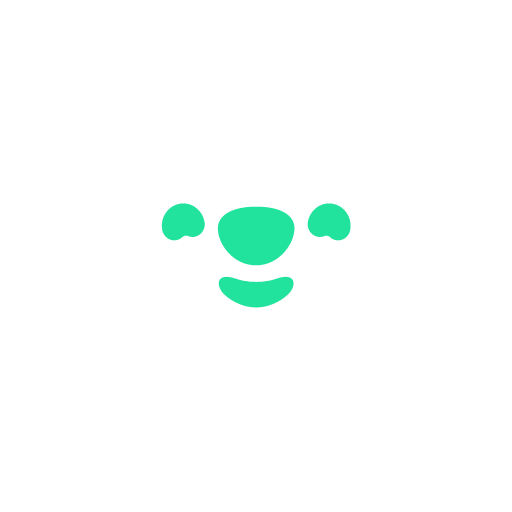
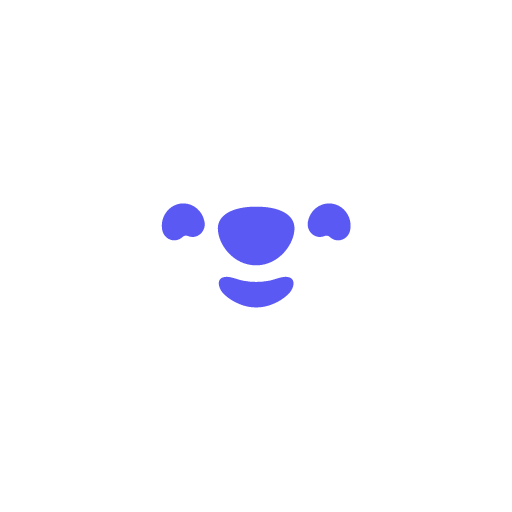
feat: done

Changed region(s): [[0.3125, 0.375, 0.6875, 0.625]]

diff --git a/mobile/src/hooks/useRecaps.tsx b/mobile/src/hooks/useRecaps.tsx
@@ -6,146 +6,9 @@ import { toast } from 'sonner';
 const INFER_API =
   'https://alan-orion-api-754072912278.europe-west9.run.app/infer/';
 
-// @ts-ignore
-const fakeRecaps = [
-  {
-    image:
[1 lines of base64/hex data omitted]
-    description: 'You seem slightly restless, but overall calm.',
-    general_score: 0.39,
-    date: '2021-09-01 12:00:00'
-  },
-  {
-    image:
[1 lines of base64/hex data omitted]
-    description: 'You seem a little anxious, but nothing overwhelming.',
-    general_score: 0.45,
-    date: '2021-09-02 12:00:00'
-  },
-  {
-    image:
[1 lines of base64/hex data omitted]
-    description: 'You appear very relaxed, nothing seems to bother you.',
-    general_score: 0.08,
-    date: '2021-09-03 12:00:00'
-  },
-  {
-    image:
[1 lines of base64/hex data omitted]
-    description: 'There’s some mild tension, but you are managing it.',
-    general_score: 0.33,
-    date: '2021-09-04 12:00:00'
-  },
-  {
-    image:
[1 lines of base64/hex data omitted]
-    description: 'You look a bit stressed, maybe take some time to relax.',
-    general_score: 0.5,
-    date: '2021-09-05 12:00:00'
-  },
-  {
-    image:
[1 lines of base64/hex data omitted]
-    description: 'Serenity radiates from you, all seems in balance.',
-    general_score: 0.11,
-    date: '2021-09-06 12:00:00'
-  },
-  {
-    image:
[1 lines of base64/hex data omitted]
-    description: 'A small hint of stress is visible, but nothing major.',
-    general_score: 0.26,
-    date: '2021-09-07 12:00:00'
-  },
-  {
-    image:
[1 lines of base64/hex data omitted]
-    description: 'Tranquility is evident, you seem very composed.',
-    general_score: 0.15,
-    date: '2021-09-08 12:00:00'
-  },
-  {
-    image:
[1 lines of base64/hex data omitted]
-    description: 'Some stress is visible, consider taking it easy.',
-    general_score: 0.43,
-    date: '2021-09-09 12:00:00'
-  },
-  {
-    image:
[1 lines of base64/hex data omitted]
-    description: 'You seem calm and at peace, no worries.',
-    general_score: 0.03,
-    date: '2021-09-10 12:00:00'
-  },
-  {
-    image:
[1 lines of base64/hex data omitted]
-    description:
-      'There’s some visible tension, perhaps a short break could help.',
-    general_score: 0.48,
-    date: '2021-09-11 12:00:00'
-  },
-  {
-    image:
[1 lines of base64/hex data omitted]
-    description: 'You have a peaceful aura, everything looks in harmony.',
-    general_score: 0.05,
-    date: '2021-09-12 12:00:00'
-  },
-  {
-    image:
[1 lines of base64/hex data omitted]
-    description: 'Slight stress is present, but you appear composed.',
-    general_score: 0.36,
-    date: '2021-09-13 12:00:00'
-  },
-  {
-    image:
[1 lines of base64/hex data omitted]
-    description: 'A little stress is showing, maybe slow down a bit.',
-    general_score: 0.52,
-    date: '2021-09-14 12:00:00'
-  },
-  {
-    image:
[1 lines of base64/hex data omitted]
-    description: 'You seem a bit preoccupied, but handling it well.',
-    general_score: 0.29,
-    date: '2021-09-15 12:00:00'
-  },
-  {
-    image:
[1 lines of base64/hex data omitted]
-    description: 'Serenity radiates from you, all seems in balance.',
-    general_score: 0.09,
-    date: '2021-09-16 12:00:00'
-  },
-  {
-    image:
[1 lines of base64/hex data omitted]
-    description: 'There’s some mild tension, but you are managing it.',
-    general_score: 0.34,
-    date: '2021-09-17 12:00:00'
-  },
-  {
-    image:
[1 lines of base64/hex data omitted]
-    description: 'You look a bit stressed, maybe take some time to relax.',
-    general_score: 0.51,
-    date: '2021-09-18 12:00:00'
-  },
-  {
-    image:
[1 lines of base64/hex data omitted]
-    description: 'Tranquility is evident, you seem very composed.',
-    general_score: 0.13,
-    date: '2021-09-19 12:00:00'
-  }
-];
-
 type InferResponse = {
   description: string;
+  sentiment: string;
   general_score: number;
   scores: {
     clenched_jaw: { 'jaw tight': number; 'jaw loose': number };
@@ -178,18 +41,15 @@ type InferResponse = {
   };
 };
 
-export type Recap = {
+export type Recap = Omit<InferResponse, 'scores'> & {
   image: string;
-  description: string;
-  general_score: number;
   date: string;
 };
 
 export const useRecaps = () => {
   const storedRecaps = JSON.parse(localStorage.getItem('recaps') || '[]');
   const [recaps, setRecaps] = useState<Recap[]>(storedRecaps);
-
-  // localStorage.setItem('recaps', JSON.stringify(fakeRecaps));
+  const [inferIsLoading, setInferIsLoading] = useState(false);
 
   async function infer(image: string) {
     const byteString = atob(image.split(',')[1]);
@@ -206,6 +66,7 @@ export const useRecaps = () => {
     const formData = new FormData();
     formData.append('image', blob, 'image.png'); // 'image.png' is the file name
 
+    setInferIsLoading(true);
     return axios
       .post<InferResponse>(INFER_API, formData, {
         headers: {
@@ -214,14 +75,15 @@ export const useRecaps = () => {
         }
       })
       .then(response => {
-        const newStoredRecaps = [
-          ...storedRecaps,
+        const newStoredRecaps: Recap[] = [
           {
             image,
             description: response.data.description,
+            sentiment: response.data.sentiment,
             general_score: response.data.general_score,
             date: format(new Date(), 'yyyy-MM-dd HH:mm:ss')
-          }
+          },
+          ...storedRecaps
         ];
 
         localStorage.setItem('recaps', JSON.stringify(newStoredRecaps));
@@ -229,10 +91,12 @@ export const useRecaps = () => {
 
         console.log(response.data);
         toast.success('Inference successful');
+        setInferIsLoading(false);
       })
       .catch(error => {
         console.error(error);
         toast.error('Inference failed');
+        setInferIsLoading(false);
       });
   }
 
@@ -245,6 +109,7 @@ export const useRecaps = () => {
       );
       localStorage.setItem('recaps', JSON.stringify(newStoredRecaps));
       setRecaps(newStoredRecaps);
-    }
+    },
+    inferIsLoading
   };
 };

diff --git a/mobile/src/pages/Recaps.tsx b/mobile/src/pages/Recaps.tsx
@@ -71,10 +71,10 @@ export const Recaps = ({
               data: recaps.map(recap => recap.general_score),
 
               segment: {
-                borderColor: meanGeneralScore(recaps) > 0.5 ? 'red' : '#22E39E'
+                borderColor: meanGeneralScore(recaps) > 0.5 ? 'red' : '#5b59f3'
               },
               backgroundColor:
-                meanGeneralScore(recaps) > 0.5 ? 'red' : '#22E39E',
+                meanGeneralScore(recaps) > 0.5 ? 'red' : '#5b59f3',
               fill: true
             }
           ]
@@ -88,7 +88,10 @@ export const Recaps = ({
               <CloseIcon />
             </IconButton>
           </Stack>
-          <Typography level='h4'>{recaps[0].description}</Typography>
+          <Typography level='h4'>
+            {recaps[0].sentiment}
+            {recaps[0].general_score}
+          </Typography>
           {recaps[0].general_score < 0.3 ? (
             <Typography level='h3' color='success'>
               Good
@@ -106,13 +109,9 @@ export const Recaps = ({
           <Typography level='h4'>
             {format(new Date(recaps[0].date), 'dd/MM/yyyy')}
           </Typography>
-
-          <Typography level='h4'>
-            General Score: {recaps[0].general_score}
-          </Typography>
         </Card>
       )}
-      {recaps.map((recap, index) => (
+      {recaps.slice(1).map((recap, index) => (
         <Card key={format(recap.date, 'dd/MM/yyyy')}>
           <Stack direction='row' justifyContent='space-between'>
             <Avatar src={recap.image} />
@@ -120,7 +119,7 @@ export const Recaps = ({
               <Typography
                 level='h4'
                 sx={{
-                  color: '#22E39E'
+                  color: '#5b59f3'
                 }}
               >
                 {format(recap.date, 'dd/MM/yyyy')}

diff --git a/mobile/src/components/TakePhoto.tsx b/mobile/src/components/TakePhoto.tsx
@@ -4,9 +4,11 @@ import UploadIcon from '@mui/icons-material/Upload';
 import { useState } from 'react';
 
 export const TakePhoto = ({
-  onPhoto
+  onPhoto,
+  inferIsLoading
 }: {
   onPhoto: (photo: string) => void;
+  inferIsLoading: boolean;
 }) => {
   const [photo, setPhoto] = useState<string | null>(null);
 
@@ -79,9 +81,10 @@ export const TakePhoto = ({
             input.click();
           }}
         >
-          <PhotoCameraIcon style={{ color: '#22E39E' }} />
+          <PhotoCameraIcon style={{ color: '#5b59f3' }} />
         </IconButton>
         <IconButton
+          loading={inferIsLoading}
           disabled={!photo}
           onClick={() => {
             if (photo) {
@@ -89,7 +92,7 @@ export const TakePhoto = ({
             }
           }}
         >
-          <UploadIcon style={{ color: '#22E39E' }} />
+          <UploadIcon style={{ color: '#5b59f3' }} />
         </IconButton>
       </Stack>
     </Stack>

diff --git a/mobile/src/pages/HomePage.tsx b/mobile/src/pages/HomePage.tsx
@@ -6,13 +6,13 @@ import { Recaps } from './Recaps';
 import { useRecaps } from '../hooks/useRecaps';
 
 export const HomePage = () => {
-  const { recaps, infer, deleteRecap } = useRecaps();
+  const { recaps, infer, deleteRecap, inferIsLoading } = useRecaps();
 
   return (
     <Box width='100vw' height='100vh'>
       <Header />
       <Stack direction='column' spacing={2} padding={2}>
-        <TakePhoto onPhoto={infer} />
+        <TakePhoto onPhoto={infer} inferIsLoading={inferIsLoading} />
         <Recaps recaps={recaps} deleteRecap={deleteRecap} />
       </Stack>
     </Box>

diff --git a/mobile/src/components/Header.tsx b/mobile/src/components/Header.tsx
@@ -26,7 +26,7 @@ export const Header = () => {
         <Typography
           level='h4'
           sx={{
-            color: '#22E39E'
+            color: '#5b59f3'
           }}
         >
           Orion
